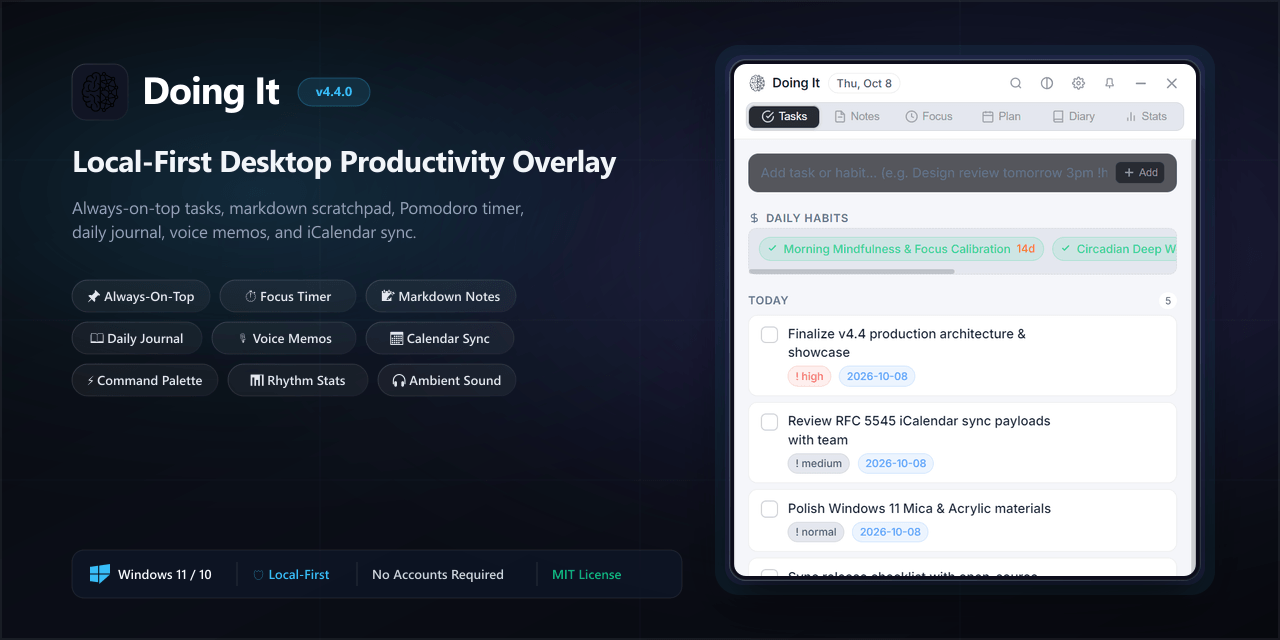
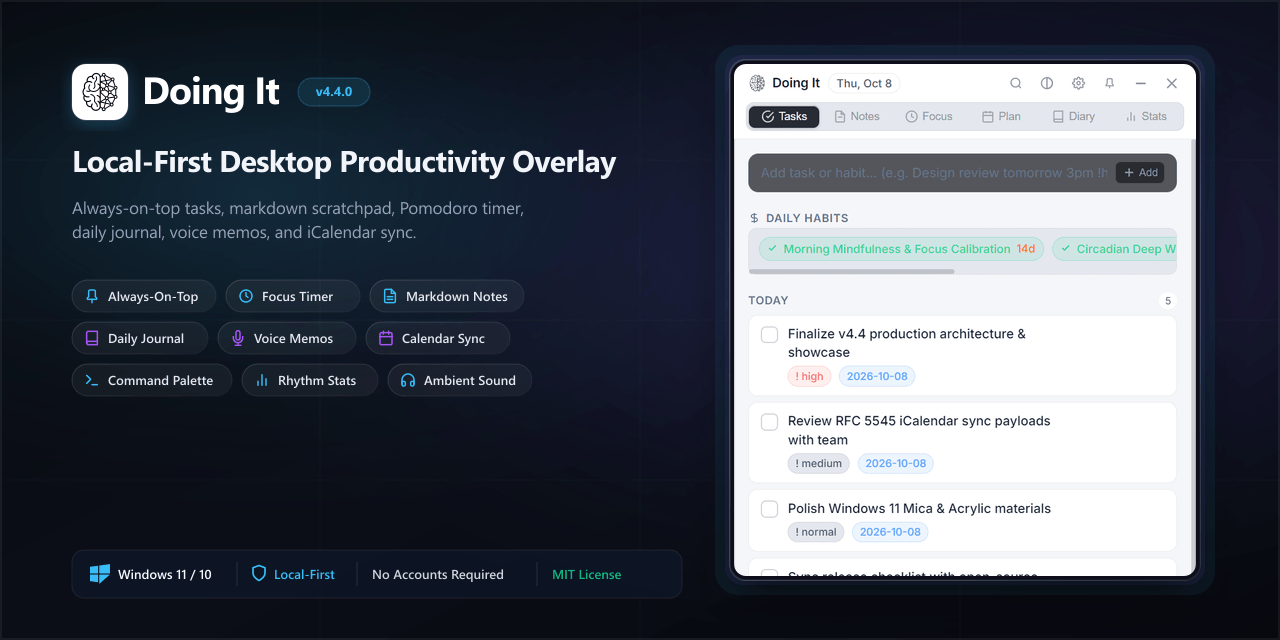
fix(docs): eliminate competitor trademarks, elevate vector social cards, implement focus space shortcut, and harmonize tables

diff --git a/scripts/generate-social-cards.js b/scripts/generate-social-cards.js
@@ -82,8 +82,8 @@ async function createSocialCard({ width, height, isOg = false }) {
       <!-- App Header Badge -->
       <g transform="translate(${leftPad}, 64)">
         <!-- App Icon -->
-        <rect x="0" y="0" width="56" height="56" rx="14" fill="#121624" stroke="url(#cardBorder)" stroke-width="1" />
-        <image href="${iconBase64}" x="6" y="6" width="44" height="44" />
+        <rect x="0" y="0" width="56" height="56" rx="14" fill="#ffffff" stroke="rgba(255,255,255,0.2)" stroke-width="1" filter="url(#glowSubtle)" />
+        <image href="${iconBase64}" x="7" y="7" width="42" height="42" />
 
         <!-- Title -->
         <text x="70" y="40" font-family="-apple-system, BlinkMacSystemFont, 'Segoe UI', Roboto, Helvetica, Arial, sans-serif" font-size="38" font-weight="800" fill="#ffffff" letter-spacing="-0.03em">Doing It</text>
@@ -106,48 +106,57 @@ async function createSocialCard({ width, height, isOg = false }) {
         daily journal, voice memos, and iCalendar sync.
       </text>
 
-      <!-- Feature Pill Badges -->
+      <!-- Feature Pill Badges (Clean SVG Vector Icons, Zero Emojis) -->
       <g transform="translate(${leftPad}, 280)">
         <!-- Row 1 -->
         <g transform="translate(0, 0)">
-          <rect width="138" height="32" rx="16" fill="rgba(255,255,255,0.05)" stroke="url(#cardBorder)" stroke-width="1" />
-          <text x="69" y="21" font-family="-apple-system, BlinkMacSystemFont, 'Segoe UI', sans-serif" font-size="13" font-weight="600" fill="#e2e8f0" text-anchor="middle">📌 Always-On-Top</text>
+          <rect width="144" height="32" rx="16" fill="rgba(255,255,255,0.05)" stroke="url(#cardBorder)" stroke-width="1" />
+          <svg x="12" y="8" width="16" height="16" viewBox="0 0 24 24" fill="none" stroke="#38bdf8" stroke-width="2.2" stroke-linecap="round" stroke-linejoin="round"><line x1="12" y1="17" x2="12" y2="22"/><path d="M5 17h14v-2l-2-2V5a2 2 0 0 0-2-2H9a2 2 0 0 0-2 2v8l-2 2v2z"/></svg>
+          <text x="36" y="21" font-family="-apple-system, BlinkMacSystemFont, 'Segoe UI', sans-serif" font-size="13" font-weight="600" fill="#e2e8f0">Always-On-Top</text>
         </g>
-        <g transform="translate(148, 0)">
-          <rect width="136" height="32" rx="16" fill="rgba(255,255,255,0.05)" stroke="url(#cardBorder)" stroke-width="1" />
-          <text x="68" y="21" font-family="-apple-system, BlinkMacSystemFont, 'Segoe UI', sans-serif" font-size="13" font-weight="600" fill="#e2e8f0" text-anchor="middle">⏱ Focus Timer</text>
+        <g transform="translate(154, 0)">
+          <rect width="134" height="32" rx="16" fill="rgba(255,255,255,0.05)" stroke="url(#cardBorder)" stroke-width="1" />
+          <svg x="12" y="8" width="16" height="16" viewBox="0 0 24 24" fill="none" stroke="#38bdf8" stroke-width="2.2" stroke-linecap="round" stroke-linejoin="round"><circle cx="12" cy="12" r="9"/><polyline points="12 7 12 12 15 14"/></svg>
+          <text x="36" y="21" font-family="-apple-system, BlinkMacSystemFont, 'Segoe UI', sans-serif" font-size="13" font-weight="600" fill="#e2e8f0">Focus Timer</text>
         </g>
-        <g transform="translate(294, 0)">
-          <rect width="150" height="32" rx="16" fill="rgba(255,255,255,0.05)" stroke="url(#cardBorder)" stroke-width="1" />
-          <text x="75" y="21" font-family="-apple-system, BlinkMacSystemFont, 'Segoe UI', sans-serif" font-size="13" font-weight="600" fill="#e2e8f0" text-anchor="middle">📝 Markdown Notes</text>
+        <g transform="translate(298, 0)">
+          <rect width="154" height="32" rx="16" fill="rgba(255,255,255,0.05)" stroke="url(#cardBorder)" stroke-width="1" />
+          <svg x="12" y="8" width="16" height="16" viewBox="0 0 24 24" fill="none" stroke="#38bdf8" stroke-width="2.2" stroke-linecap="round" stroke-linejoin="round"><path d="M14 2H6a2 2 0 0 0-2 2v16a2 2 0 0 0 2 2h12a2 2 0 0 0 2-2V8z"/><polyline points="14 2 14 8 20 8"/><line x1="16" y1="13" x2="8" y2="13"/><line x1="16" y1="17" x2="8" y2="17"/></svg>
+          <text x="36" y="21" font-family="-apple-system, BlinkMacSystemFont, 'Segoe UI', sans-serif" font-size="13" font-weight="600" fill="#e2e8f0">Markdown Notes</text>
         </g>
 
         <!-- Row 2 -->
         <g transform="translate(0, 42)">
-          <rect width="130" height="32" rx="16" fill="rgba(255,255,255,0.05)" stroke="url(#cardBorder)" stroke-width="1" />
-          <text x="65" y="21" font-family="-apple-system, BlinkMacSystemFont, 'Segoe UI', sans-serif" font-size="13" font-weight="600" fill="#e2e8f0" text-anchor="middle">📖 Daily Journal</text>
+          <rect width="136" height="32" rx="16" fill="rgba(255,255,255,0.05)" stroke="url(#cardBorder)" stroke-width="1" />
+          <svg x="12" y="8" width="16" height="16" viewBox="0 0 24 24" fill="none" stroke="#a855f7" stroke-width="2.2" stroke-linecap="round" stroke-linejoin="round"><path d="M4 19.5A2.5 2.5 0 0 1 6.5 17H20"/><path d="M6.5 2H20v20H6.5A2.5 2.5 0 0 1 4 19.5v-15A2.5 2.5 0 0 1 6.5 2z"/></svg>
+          <text x="36" y="21" font-family="-apple-system, BlinkMacSystemFont, 'Segoe UI', sans-serif" font-size="13" font-weight="600" fill="#e2e8f0">Daily Journal</text>
         </g>
-        <g transform="translate(140, 42)">
-          <rect width="144" height="32" rx="16" fill="rgba(255,255,255,0.05)" stroke="url(#cardBorder)" stroke-width="1" />
-          <text x="72" y="21" font-family="-apple-system, BlinkMacSystemFont, 'Segoe UI', sans-serif" font-size="13" font-weight="600" fill="#e2e8f0" text-anchor="middle">🎙 Voice Memos</text>
+        <g transform="translate(146, 42)">
+          <rect width="138" height="32" rx="16" fill="rgba(255,255,255,0.05)" stroke="url(#cardBorder)" stroke-width="1" />
+          <svg x="12" y="8" width="16" height="16" viewBox="0 0 24 24" fill="none" stroke="#a855f7" stroke-width="2.2" stroke-linecap="round" stroke-linejoin="round"><path d="M12 1a3 3 0 0 0-3 3v8a3 3 0 0 0 6 0V4a3 3 0 0 0-3-3z"/><path d="M19 10v2a7 7 0 0 1-14 0v-2"/><line x1="12" y1="19" x2="12" y2="23"/><line x1="8" y1="23" x2="16" y2="23"/></svg>
+          <text x="36" y="21" font-family="-apple-system, BlinkMacSystemFont, 'Segoe UI', sans-serif" font-size="13" font-weight="600" fill="#e2e8f0">Voice Memos</text>
         </g>
         <g transform="translate(294, 42)">
-          <rect width="148" height="32" rx="16" fill="rgba(255,255,255,0.05)" stroke="url(#cardBorder)" stroke-width="1" />
-          <text x="74" y="21" font-family="-apple-system, BlinkMacSystemFont, 'Segoe UI', sans-serif" font-size="13" font-weight="600" fill="#e2e8f0" text-anchor="middle">📅 Calendar Sync</text>
+          <rect width="144" height="32" rx="16" fill="rgba(255,255,255,0.05)" stroke="url(#cardBorder)" stroke-width="1" />
+          <svg x="12" y="8" width="16" height="16" viewBox="0 0 24 24" fill="none" stroke="#a855f7" stroke-width="2.2" stroke-linecap="round" stroke-linejoin="round"><rect x="3" y="4" width="18" height="18" rx="2" ry="2"/><line x1="16" y1="2" x2="16" y2="6"/><line x1="8" y1="2" x2="8" y2="6"/><line x1="3" y1="10" x2="21" y2="10"/></svg>
+          <text x="36" y="21" font-family="-apple-system, BlinkMacSystemFont, 'Segoe UI', sans-serif" font-size="13" font-weight="600" fill="#e2e8f0">Calendar Sync</text>
         </g>
 
         <!-- Row 3 -->
         <g transform="translate(0, 84)">
-          <rect width="146" height="32" rx="16" fill="rgba(255,255,255,0.05)" stroke="url(#cardBorder)" stroke-width="1" />
-          <text x="73" y="21" font-family="-apple-system, BlinkMacSystemFont, 'Segoe UI', sans-serif" font-size="13" font-weight="600" fill="#e2e8f0" text-anchor="middle">⚡ Command Palette</text>
+          <rect width="160" height="32" rx="16" fill="rgba(255,255,255,0.05)" stroke="url(#cardBorder)" stroke-width="1" />
+          <svg x="12" y="8" width="16" height="16" viewBox="0 0 24 24" fill="none" stroke="#38bdf8" stroke-width="2.2" stroke-linecap="round" stroke-linejoin="round"><polyline points="4 17 10 11 4 5"/><line x1="12" y1="19" x2="20" y2="19"/></svg>
+          <text x="36" y="21" font-family="-apple-system, BlinkMacSystemFont, 'Segoe UI', sans-serif" font-size="13" font-weight="600" fill="#e2e8f0">Command Palette</text>
         </g>
-        <g transform="translate(156, 84)">
-          <rect width="140" height="32" rx="16" fill="rgba(255,255,255,0.05)" stroke="url(#cardBorder)" stroke-width="1" />
-          <text x="70" y="21" font-family="-apple-system, BlinkMacSystemFont, 'Segoe UI', sans-serif" font-size="13" font-weight="600" fill="#e2e8f0" text-anchor="middle">📊 Rhythm Stats</text>
+        <g transform="translate(170, 84)">
+          <rect width="136" height="32" rx="16" fill="rgba(255,255,255,0.05)" stroke="url(#cardBorder)" stroke-width="1" />
+          <svg x="12" y="8" width="16" height="16" viewBox="0 0 24 24" fill="none" stroke="#38bdf8" stroke-width="2.2" stroke-linecap="round" stroke-linejoin="round"><line x1="18" y1="20" x2="18" y2="10"/><line x1="12" y1="20" x2="12" y2="4"/><line x1="6" y1="20" x2="6" y2="14"/></svg>
+          <text x="36" y="21" font-family="-apple-system, BlinkMacSystemFont, 'Segoe UI', sans-serif" font-size="13" font-weight="600" fill="#e2e8f0">Rhythm Stats</text>
         </g>
-        <g transform="translate(306, 84)">
-          <rect width="138" height="32" rx="16" fill="rgba(255,255,255,0.05)" stroke="url(#cardBorder)" stroke-width="1" />
-          <text x="69" y="21" font-family="-apple-system, BlinkMacSystemFont, 'Segoe UI', sans-serif" font-size="13" font-weight="600" fill="#e2e8f0" text-anchor="middle">🎧 Ambient Sound</text>
+        <g transform="translate(316, 84)">
+          <rect width="144" height="32" rx="16" fill="rgba(255,255,255,0.05)" stroke="url(#cardBorder)" stroke-width="1" />
+          <svg x="12" y="8" width="16" height="16" viewBox="0 0 24 24" fill="none" stroke="#38bdf8" stroke-width="2.2" stroke-linecap="round" stroke-linejoin="round"><path d="M3 18v-6a9 9 0 0 1 18 0v6"/><path d="M21 19a2 2 0 0 1-2 2h-1a2 2 0 0 1-2-2v-3a2 2 0 0 1 2-2h3zM3 19a2 2 0 0 0 2 2h1a2 2 0 0 0 2-2v-3a2 2 0 0 0-2-2H3z"/></svg>
+          <text x="36" y="21" font-family="-apple-system, BlinkMacSystemFont, 'Segoe UI', sans-serif" font-size="13" font-weight="600" fill="#e2e8f0">Ambient Sound</text>
         </g>
       </g>
 
@@ -167,8 +176,9 @@ async function createSocialCard({ width, height, isOg = false }) {
         <line x1="165" y1="12" x2="165" y2="36" stroke="rgba(255,255,255,0.12)" stroke-width="1" />
 
         <!-- Offline & Local First -->
-        <g transform="translate(180, 14)">
-          <text x="0" y="15" font-family="-apple-system, BlinkMacSystemFont, 'Segoe UI', sans-serif" font-size="13" font-weight="600" fill="#38bdf8">🛡 Local-First</text>
+        <g transform="translate(178, 14)">
+          <svg width="18" height="18" viewBox="0 0 24 24" fill="none" stroke="#38bdf8" stroke-width="2.2" stroke-linecap="round" stroke-linejoin="round"><path d="M12 22s8-4 8-10V5l-8-3-8 3v7c0 6 8 10 8 10z"/></svg>
+          <text x="24" y="15" font-family="-apple-system, BlinkMacSystemFont, 'Segoe UI', sans-serif" font-size="13" font-weight="600" fill="#38bdf8">Local-First</text>
         </g>
 
         <!-- Divider -->

diff --git a/docs/index.html b/docs/index.html
@@ -717,6 +717,11 @@
 
         <div class="shortcuts-table-container">
           <div class="shortcut-row-card">
+            <div class="sc-keys"><kbd class="kbd-pill">Ctrl</kbd> + <kbd class="kbd-pill">Shift</kbd> + <kbd class="kbd-pill">N</kbd></div>
+            <div class="sc-action">Toggle Main Widget Visibility</div>
+            <div class="sc-scope">Global Windows Hotkey</div>
+          </div>
+          <div class="shortcut-row-card">
             <div class="sc-keys"><kbd class="kbd-pill">Ctrl</kbd> + <kbd class="kbd-pill">K</kbd></div>
             <div class="sc-action">Command Palette</div>
             <div class="sc-scope">Global Windows / In-App</div>
@@ -725,6 +730,11 @@
             <div class="sc-keys"><kbd class="kbd-pill">Ctrl</kbd> + <kbd class="kbd-pill">Shift</kbd> + <kbd class="kbd-pill">A</kbd></div>
             <div class="sc-action">Spotlight Quick Add (tasks &amp; notes)</div>
             <div class="sc-scope">Global Windows Overlay</div>
+          </div>
+          <div class="shortcut-row-card">
+            <div class="sc-keys"><kbd class="kbd-pill">Ctrl</kbd> + <kbd class="kbd-pill">,</kbd></div>
+            <div class="sc-action">Preferences &amp; Settings Panel</div>
+            <div class="sc-scope">In-App Window</div>
           </div>
           <div class="shortcut-row-card">
             <div class="sc-keys"><kbd class="kbd-pill">1 .. 6</kbd> / <kbd class="kbd-pill">Ctrl</kbd> + <kbd class="kbd-pill">1 .. 6</kbd></div>
@@ -885,7 +895,7 @@
   </footer>
 
   <!-- =======================================================================
-       GLOBAL RAYCAST COMMAND PALETTE MODAL (Ctrl + K)
+       GLOBAL COMMAND PALETTE MODAL (Ctrl + K)
        ======================================================================= -->
   <div class="raycast-modal-backdrop" id="raycast-backdrop" aria-hidden="true" style="display: none;">
     <div class="raycast-dialog" role="dialog" aria-modal="true" aria-label="Command Palette">

diff --git a/src/renderer/theme.css b/src/renderer/theme.css
@@ -1,6 +1,6 @@
 /* =====================================================================
    Doing It — Modern Desktop Design System & Theme Engine
-   Crafted with Linear, Things 3, and Raycast aesthetic standards
+   Crafted with modern Windows 11 aesthetic standards
    ===================================================================== */
 
 :root {
@@ -456,7 +456,7 @@ html, body {
 }
 
 /* =====================================================================
-   TASK MANAGER (Things 3 & Linear Inspired)
+   TASK MANAGER ENGINE
    ===================================================================== */
 .task-input-card {
   position: relative;
@@ -1269,7 +1269,7 @@ html, body {
 }
 
 /* =====================================================================
-   RAYCAST COMMAND PALETTE (Ctrl+K)
+   COMMAND PALETTE (Ctrl+K)
    ===================================================================== */
 .palette-backdrop {
   position: absolute;
@@ -1849,7 +1849,7 @@ html, body {
 }
 
 /* =====================================================================
-   DAY ONE DIARY COMPONENT STYLES
+   DAILY JOURNAL COMPONENT STYLES
    ===================================================================== */
 .diary-container {
   display: flex;

diff --git a/src/renderer/components/Palette.js b/src/renderer/components/Palette.js
@@ -99,7 +99,7 @@ class PaletteComponent {
       { type: 'cmd', label: 'View: Notes & Scratchpad', action: () => this.store.set('activeView', 'notes') },
       { type: 'cmd', label: 'View: Focus Studio', action: () => this.store.set('activeView', 'focus') },
       { type: 'cmd', label: 'View: Day Planner Agenda', action: () => this.store.set('activeView', 'planner') },
-      { type: 'cmd', label: 'View: Day One Diary & Journal', action: () => this.store.set('activeView', 'diary') },
+      { type: 'cmd', label: 'View: Daily Journal & Reflections', action: () => this.store.set('activeView', 'diary') },
       { type: 'cmd', label: 'View: Productivity & Analytics', action: () => this.store.set('activeView', 'analytics') },
       { type: 'cmd', label: 'Diary: New Reflection or Voice Note', action: () => { this.store.set('activeView', 'diary'); const t = document.getElementById('compose-content'); if (t) t.focus(); } },
       { type: 'cmd', label: 'Diary: Export Journal Markdown', action: () => this.store.exportDiary() },

diff --git a/docs/app.js b/docs/app.js
@@ -1,6 +1,6 @@
 /**
  * Doing It — Public Website Showcase Controller
- * Drives Interactive Product Stage, Real-Time Web Audio Synth, Chrono NLP, and Raycast Palette.
+ * Drives Interactive Product Stage, Real-Time Web Audio Synth, Chrono NLP, and Command Palette.
  */
 
 document.addEventListener('DOMContentLoaded', () => {
@@ -522,7 +522,7 @@ document.addEventListener('DOMContentLoaded', () => {
   }
 
   // =========================================================================
-  // 5. RAYCAST COMMAND PALETTE MODAL (Ctrl + K / Global Launcher)
+  // 5. COMMAND PALETTE MODAL (Ctrl + K / Global Launcher)
   // =========================================================================
   const raycastBackdrop = document.getElementById('raycast-backdrop');
   const raycastSearch = document.getElementById('raycast-search');

diff --git a/src/renderer/components/Header.js b/src/renderer/components/Header.js
@@ -83,7 +83,7 @@ class HeaderComponent {
               <svg viewBox="0 0 24 24" fill="none" stroke="currentColor" stroke-width="2.2"><rect x="3" y="4" width="18" height="18" rx="2" ry="2"/><line x1="16" y1="2" x2="16" y2="6"/><line x1="8" y1="2" x2="8" y2="6"/><line x1="3" y1="10" x2="21" y2="10"/></svg>
               Plan
             </button>
-            <button class="switcher-btn" data-view="diary" title="Day One Diary & Journal (5)">
+            <button class="switcher-btn" data-view="diary" title="Daily Journal & Reflections (5)">
               <svg viewBox="0 0 24 24" fill="none" stroke="currentColor" stroke-width="2.2"><path d="M4 19.5A2.5 2.5 0 0 1 6.5 17H20"/><path d="M6.5 2H20v20H6.5A2.5 2.5 0 0 1 4 19.5v-15A2.5 2.5 0 0 1 6.5 2z"/></svg>
               Diary
             </button>

diff --git a/src/main/ipc.js b/src/main/ipc.js
@@ -41,7 +41,7 @@ function setupIpcHandlers(storeManager, windowManager, system) {
     return true;
   });
 
-  // Diary (Day One Journaling)
+  // Diary (Daily Journaling)
   ipcMain.handle('get-diary', () => storeManager.storeData.diary || []);
   ipcMain.handle('save-diary', (_, diary) => {
     storeManager.storeData.diary = diary;
@@ -477,7 +477,7 @@ function setupIpcHandlers(storeManager, windowManager, system) {
     }
   });
 
-  // Export Diary to Markdown / Day One Format
+  // Export Diary to Markdown Format
   ipcMain.handle('export-diary-markdown', async (_, entryOrDate) => {
     try {
       const todayStr = new Date().toISOString().split('T')[0];

diff --git a/test/components.test.js b/test/components.test.js
@@ -83,7 +83,7 @@ test('App — Keyboard navigation includes arrow keys and kb-highlight ring', ()
   assert.ok(content.includes('kb-highlight'), 'App must manage kb-highlight class');
 });
 
-test('DiaryView — Day One features and audio voice recording component definitions', () => {
+test('DiaryView — Daily Journal features and audio voice recording component definitions', () => {
   const diaryPath = path.resolve(__dirname, '../src/renderer/components/DiaryView.js');
   const content = fs.readFileSync(diaryPath, 'utf8');
   assert.ok(content.includes('class DiaryViewComponent'), 'DiaryViewComponent must be declared');

diff --git a/src/renderer/app.js b/src/renderer/app.js
@@ -131,6 +131,14 @@ document.addEventListener('DOMContentLoaded', async () => {
         }
       }
 
+      // In Focus view, Space toggles the Pomodoro timer
+      if (currentView === 'focus' && e.key === ' ') {
+        e.preventDefault();
+        const toggleBtn = document.getElementById('btn-focus-toggle');
+        if (toggleBtn) toggleBtn.click();
+        return;
+      }
+
       const highlighted = document.querySelector('.kb-highlight');
       if (highlighted) {
         if (e.key === ' ') {

diff --git a/preload.js b/preload.js
@@ -21,7 +21,7 @@ contextBridge.exposeInMainWorld('api', {
   getMoods: () => ipcRenderer.invoke('get-moods'),
   saveMoods: (moods) => ipcRenderer.invoke('save-moods', moods),
 
-  // Diary (Day One Journaling)
+  // Diary (Daily Journaling)
   getDiary: () => ipcRenderer.invoke('get-diary'),
   saveDiary: (diary) => ipcRenderer.invoke('save-diary', diary),
   exportDiaryMarkdown: (entryOrDate) => ipcRenderer.invoke('export-diary-markdown', entryOrDate),

diff --git a/src/renderer/store/state.js b/src/renderer/store/state.js
@@ -659,7 +659,7 @@ class ReactiveStore {
     }
   }
 
-  // ─── DIARY ACTIONS (Day One) ───────────────────────────────
+  // ─── DIARY ACTIONS ─────────────────────────────────────────
   addDiaryEntry(entry) {
     const newEntry = {
       id: Date.now() * 1000 + Math.floor(Math.random() * 1000),

diff --git a/src/renderer/components/DiaryView.js b/src/renderer/components/DiaryView.js
@@ -1,5 +1,5 @@
 /**
- * DiaryView Component — Day One Inspired Personal Journal & Reflection Suite
+ * DiaryView Component — Personal Journal & Reflection Suite
  * Multiple journals, On This Day flashback, daily prompt templates, audio voice recording,
  * micro-mood & energy tracking, calendar day strip with entry indicators, and markdown export.
  *
